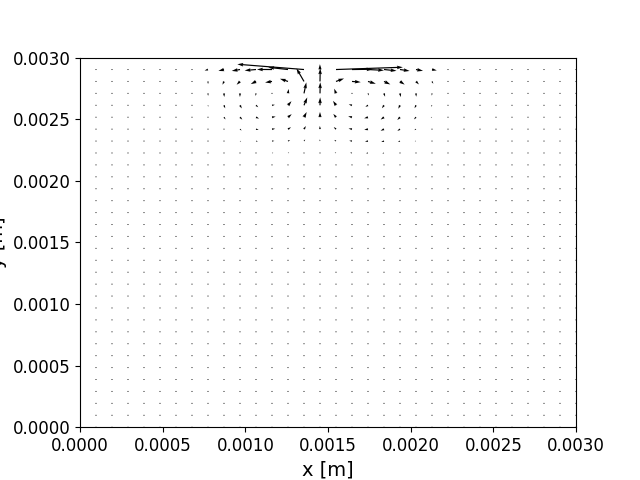
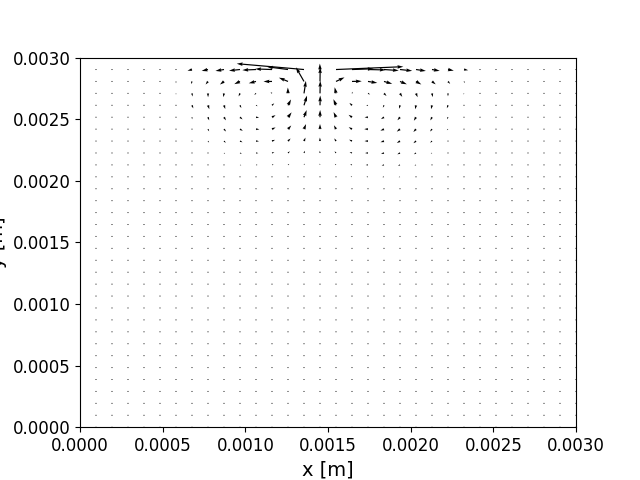
Updates timestep.

Changed region(s): [[0.5625, 0.125, 0.6875, 0.1875], [0.3438, 0.125, 0.4688, 0.1562], [0.4688, 0.1875, 0.5, 0.2188]]

diff --git a/report_code/mainScript.py b/report_code/mainScript.py
@@ -16,7 +16,7 @@ if __name__ == "__main__":
     Ly = 0.003  #m
     dx = 0.0001
     dy = 0.0001
-    t_max = 0.5  #s
+    t_max = 2.0  #s
     alpha = 2*(10**-6) #m^2/s
     k = 6.7    #W/mK
     dt = 0.00002
